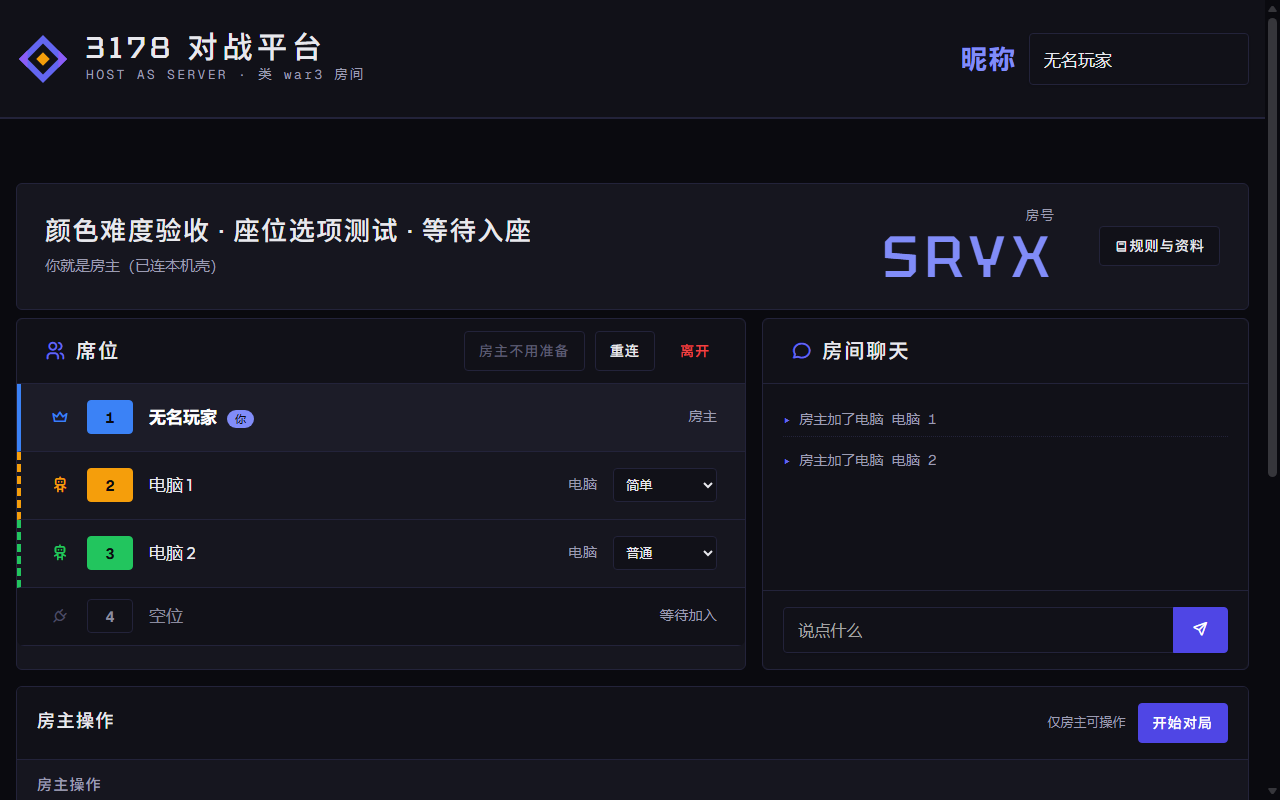
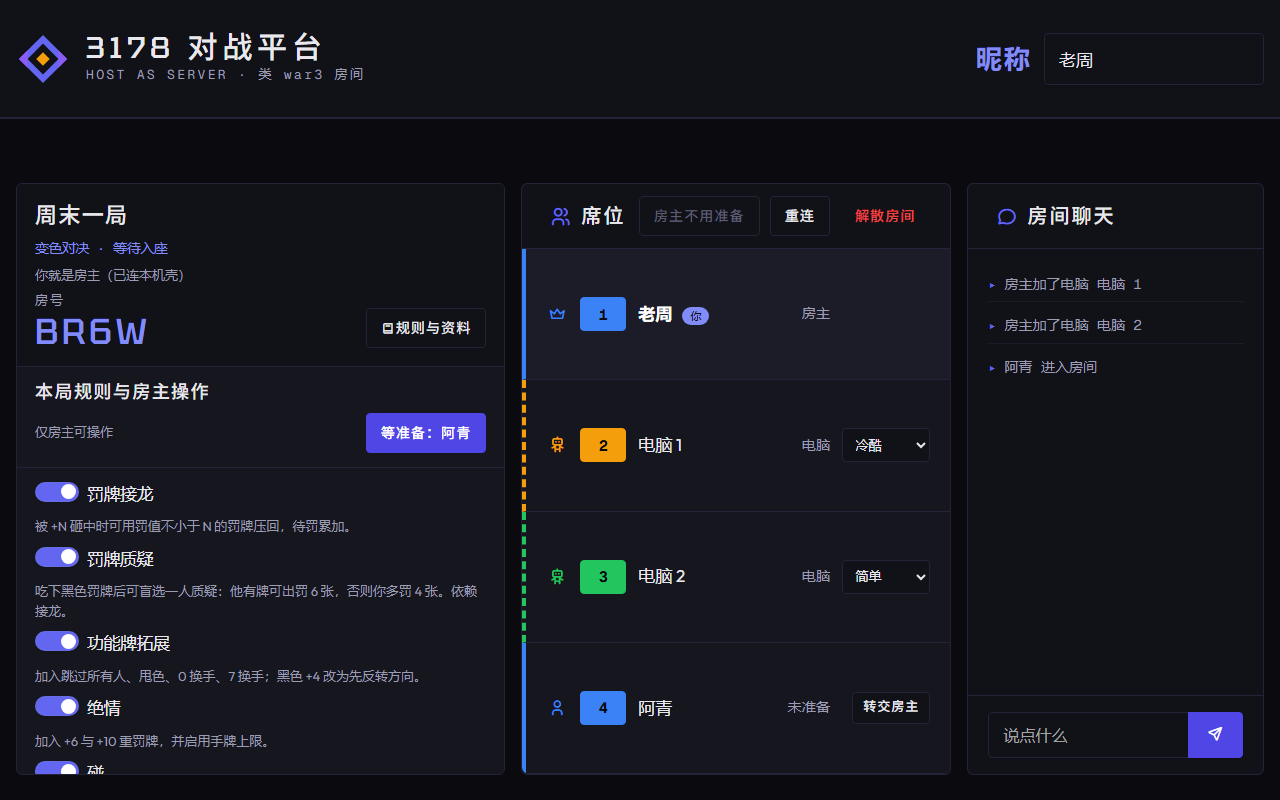
style: 房间三栏按内容分宽

diff --git a/packages/client/public/style.css b/packages/client/public/style.css
@@ -419,7 +419,7 @@ option:disabled {
 .room-layout:not(.is-playing) {
   --bp-room-col-h: clamp(520px, calc(100vh - 208px), 760px);
   display: grid;
-  grid-template-columns: minmax(340px, 380px) minmax(0, 3fr) minmax(0, 2fr);
+  grid-template-columns: minmax(430px, 1.65fr) minmax(0, 1.45fr) minmax(0, 1fr);
   align-items: stretch;
   gap: 16px;
 }
@@ -698,8 +698,11 @@ option:disabled {
 /* 行内控件按固定列对齐：状态列同宽，右侧永远给动作留一列。 */
 .room-layout:not(.is-playing) .seat {
   display: grid;
-  grid-template-columns: 22px 46px minmax(0, 1fr) 72px minmax(88px, auto);
+  grid-template-columns: 22px 46px minmax(0, 1fr) 64px 88px;
+  gap: 12px;
+  padding: 0 20px;
 }
+.room-layout:not(.is-playing) .seat-ai-difficulty { width: 88px; }
 .room-layout:not(.is-playing) .seat-state { text-align: right; white-space: nowrap; }
 .room-layout:not(.is-playing) .seat-transfer-button,
 .room-layout:not(.is-playing) .seat-ai-difficulty { justify-self: end; }

diff --git a/CONTEXT.md b/CONTEXT.md
@@ -28,15 +28,15 @@
 - 平台内核（P0–P7）已交付：协议、座位与房主权限、`GameModule` 契约 + 测试夹具、ws 传输、落盘恢复、客户端界面、hostd 壳（host / join / diagnose / stop）。
 - 包边界：`@lizardon386/core-abi`（游戏 ABI）· `@bp/protocol`（wire）· `@lizardon386/pack-format`（.bpmap）· `@lizardon386/game-sdk`（公共门面 + game-kit）· `@lizardon386/sdk-tools`（bpmap CLI / doctor / 模板）。平台包仍是 `@bp/server`、`@bp/client`、`@bp/hostd`、`@bp/testkit`。
 - 游戏下发与兼容闸：`/api/games`、`/games/<id>/*`、客户端 SHA-256 校验（无 `crypto.subtle` 时纯 JS 回退）、`sandbox=allow-scripts` iframe；`mode` / `apiVersion` 写入 `.bpmap` 包头，宿主只加载 `turn` / `1`，`/api/version` 与 `bpmap doctor` 用同一组常量；`fixture-kit` 覆盖事件流 / 资源 / 拒绝。
-- **座位级选项**（SDK 0.4.0 契约 `c326314`）：`SeatOptionsSpec` / `parseSeatOptions`，`SeatView.options` / `GameSeatInfo.options`，`hostSeat {op:'setOptions'}`；平台把颜色直接映射到席位左侧色条/图标/号码牌，房主点号码牌选色；电脑行内显示难度下拉，无通用“设置”按钮；只房主、只 lobby，服务端用游戏 `normalizeSeatOptions`/spec 收口，`RoomExport` 随座位持久化。1280×800 截图 [seat-options-1280.png](docs/images/seat-options-1280.png)。232/232。
-- 房间 UI 增量：lobby 改三栏——左栏 380px，房信息与「本局规则与房主操作」合成一张连续卡（房信息 184px、房主台 407px），规则区紧贴房号下方，规则说明 13px，控制台在栏内滚动；右侧席位/聊天并排。三栏共用 `clamp(520px, calc(100vh - 208px), 760px)` 高度（1280×800 实测 592px），席位行固定列对齐。非房主左栏只保留只读规则摘要，房主操作/开局/邀请/颜色入口/难度下拉全部隐藏。房主顶部按钮改为「解散房间」（直接 hostClose），真人席位行右侧由房主直接「转交房主」，状态列与动作列对齐。`playing` 时房间头移到顶部，游戏区拉通整行，席位横向状态条，聊天/控制台进右侧侧栏（`D` / `Esc`，焦点归还）；无 deadline 不显示倒计时块；“规则与资料”改为接近全屏双栏弹层。1280×800 实测游戏区 1248×560；截图 [房主](docs/images/room-host-lobby-1280.png) / [非房主](docs/images/room-guest-lobby-1280.png) / [对局中](docs/images/room-playing-1280.png)。房间页「本局规则」卡由房主在 lobby 编辑（`ruleConfig` 命令，非房主 HOSTONLY），改后刷新 `RoomView.config` / `rulesHash`、重置真人 ready 并发系统消息；`RoomExport.config` 落盘，重启保持。`manifest.reference` 首次展开才请求，`parseGameReference` 校验，文本用 `textContent`、图片走 `/games`，图片 404 显示 alt，失败只影响面板。服务端在模块加载时还会校验 `ruleConfig` / `reference` 文档，坏声明跳过并记 `errors`；`manifestOf` 再挡一次；包头与模块 reference 不一致拒绝加载。
+- **座位级选项**（SDK 0.4.0 契约 `c326314`）：`SeatOptionsSpec` / `parseSeatOptions`，`SeatView.options` / `GameSeatInfo.options`，`hostSeat {op:'setOptions'}`；平台把颜色直接映射到席位左侧色条/图标/号码牌，房主点号码牌选色；电脑行内显示难度下拉，无通用“设置”按钮；只房主、只 lobby，服务端用游戏 `normalizeSeatOptions`/spec 收口，`RoomExport` 随座位持久化。**变色对决 0.1.0+c6836 已声明并用真实包实测**：房主座位蓝/红/绿可切，电脑 1/2 各自选简单/中等/冷酷；非房主看不到颜色入口，难度下拉只读。1280×800 截图 [seat-options-1280.png](docs/images/seat-options-1280.png)。232/232。
+- 房间 UI 增量：lobby 改三栏——三栏按内容比例分宽（左栏至少 430px，1280×800 实测左 495 / 席位 426 / 聊天 301），房信息与「本局规则与房主操作」合成一张连续卡（房信息 184px、房主台 407px），规则区紧贴房号下方，规则说明 13px，控制台在栏内滚动；席位行固定列（状态 64px、动作列 88px），电脑难度与转交按钮同列，状态右边界一致。三栏共用 `clamp(520px, calc(100vh - 208px), 760px)` 高度（1280×800 实测 592px）。非房主左栏只保留只读规则摘要，房主操作/开局/邀请/颜色入口全部隐藏，电脑难度下拉只读。房主顶部按钮改为「解散房间」（直接 hostClose），真人席位行右侧由房主直接「转交房主」。`playing` 时房间头移到顶部，游戏区拉通整行，席位横向状态条，聊天/控制台进右侧侧栏（`D` / `Esc`，焦点归还）；无 deadline 不显示倒计时块；“规则与资料”改为接近全屏双栏弹层。1280×800 实测游戏区 1248×560；截图 [房主](docs/images/room-host-lobby-1280.png) / [非房主](docs/images/room-guest-lobby-1280.png) / [对局中](docs/images/room-playing-1280.png)。房间页「本局规则」卡由房主在 lobby 编辑（`ruleConfig` 命令，非房主 HOSTONLY），改后刷新 `RoomView.config` / `rulesHash`、重置真人 ready 并发系统消息；`RoomExport.config` 落盘，重启保持。`manifest.reference` 首次展开才请求，`parseGameReference` 校验，文本用 `textContent`、图片走 `/games`，图片 404 显示 alt，失败只影响面板。服务端在模块加载时还会校验 `ruleConfig` / `reference` 文档，坏声明跳过并记 `errors`；`manifestOf` 再挡一次；包头与模块 reference 不一致拒绝加载。
 - 单入口壳：根目录只有 `3178对战平台.bat`，启动 `cli.js shell`；先只开 `127.0.0.1:3178` 与本机大厅，点「建房」时调 `/api/host/ready` 再开 `0.0.0.0:3000`、组播与 `HostStore`。纯进房不创建 `HostStore`、不写 `data/`；建房后 `run-<port>.json` / `stop` / `diagnose` 与旧入口一致。`host` / `join` 子命令保留给命令行。
 - SDK 0.3.0 已发 npm（四包 `@lizardon386/*`，`latest` 均为 0.3.0，2026-10-29）；Trusted Publisher + [publish-sdk.yml](.github/workflows/publish-sdk.yml) 的首次真实 CI 发布已绿；`sdk-v0.3.0` tag/Release 已建（Release 资产来自 `dist-sdk/`，含 SHA256SUMS）。`sdk-v0.2.0` 保留可回退。**SDK 0.4.0 座位选项契约已在仓库（`c326314`），未打包/未发 npm/未打 tag**；游戏侧需本地 link 0.4.0。
[2 lines of base64/hex data omitted]
 
 ## 4. 下一步
 
-1. **等用户自测初版 color-duel 包**：包在 `games/color-duel.bpmap`（gitignored），用「3178对战平台.bat」建房/改规则/开局即可；用户反馈后先修游戏或平台，不急着发版。平台侧猴测结果：协议猴测 seed 707 夹具 0 违规；强制 color-duel 的协议猴测 seed 717 0 违规；UI 猴测 seed 909（4 用户 60 步）0 违规。
+1. **等用户自测 color-duel 包**：包在 `games/color-duel.bpmap`（gitignored，已含 seatOptions），用「3178对战平台.bat」建房/改规则/开局即可；**如果平台窗口在换包前就开着，先关掉重开**。用户反馈后先修游戏或平台，不急着发版。平台侧猴测结果：协议猴测 seed 707 夹具 0 违规；强制 color-duel 的协议猴测 seed 717 0 违规；UI 猴测 seed 909（4 用户 60 步）0 违规。
 2. **SDK 0.3.0 已发布（2026-10-29）**，color-duel 依赖已切 `^0.3.0` 并提交（`1a78b9e`，lock 指向 registry）；下一步 `gh repo create Lizardon386/color-duel --public` 推首个提交，CI 绿后打 `v0.1.0`。
 3. **双机与交付实测**：同 WiFi 组播、首次防火墙弹窗、`--tunnel` 真隧道（cloudflared）；便携包上无 Node 机器；单文件 exe 前先做 Node SEA hello-world 实验（SAC = On 可能直接拦）。
 6. 刻意不做：目录服务器 / 账号 / 好友 / 段位 / 匹配 / 反作弊仲裁 / 自动写防火墙规则。

diff --git a/DESIGN.md b/DESIGN.md
@@ -261,9 +261,9 @@ stateDiagram-v2
 
 ### 4.5 房间界面：对局区、规则与资料
 
-- **lobby 三栏等高**：左栏 380px 宽，房信息与「本局规则与房主操作」合成一张连续卡：房号/连接信息在上半，规则区紧贴其下，没有第二张卡的间距和重复边框；规则正文收紧到 13px，房主台在栏内滚动。右侧席位与聊天并排；三栏共用 `calc(100vh - 208px)` 的高度，桌面底边对齐。席位行按固定列对齐：状态列同宽，最右侧留动作列；真人席位行由房主直接点「转交房主」，房主的顶部按钮是「解散房间」而不是无意义的「离开」。进入 `playing` 后房间头移到顶部，游戏区拉通整行，席位压成横向状态条，聊天与同一控制台收进右侧抽屉，默认收起；按钮、`D` 键和 `Esc` 都能操作，关闭时焦点回到触发按钮。没有 deadline 时不显示倒计时块。
-- **非房主视图**：左栏只保留房间名/房号/连接状态和规则摘要，开局、加电脑位、移交、请出、邀请和关房全部隐藏；座位号码牌不是颜色入口，电脑难度下拉也不会出现。席位与聊天位置和房主一致，`lobby` 只多一个「准备」按钮。截图见 [room-guest-lobby-1280.png](docs/images/room-guest-lobby-1280.png)。
-- **桌面实测**：1280×800 下三栏同高 592px，左栏房信息 184px、房主台 407px，游戏区 1248×560；低于 1100px 宽的桌面不在本档验收范围。
+- **lobby 三栏等高**：三栏按内容比例分宽（左栏至少 430px，1280×800 实测左 495 / 席位 426 / 聊天 301），不再把左栏钉死在窄列。房信息与「本局规则与房主操作」合成一张连续卡：房号/连接信息在上半，规则区紧贴其下，没有第二张卡的间距和重复边框；规则正文收紧到 13px，房主台在栏内滚动。右侧席位与聊天并排；三栏共用 `calc(100vh - 208px)` 的高度，桌面底边对齐。席位行按固定列对齐：状态列同宽，最右侧固定 88px 动作列；真人席位行由房主直接点「转交房主」，电脑难度下拉也占这一列；房主的顶部按钮是「解散房间」而不是无意义的「离开」。进入 `playing` 后房间头移到顶部，游戏区拉通整行，席位压成横向状态条，聊天与同一控制台收进右侧抽屉，默认收起；按钮、`D` 键和 `Esc` 都能操作，关闭时焦点回到触发按钮。没有 deadline 时不显示倒计时块。
+- **非房主视图**：左栏只保留房间名/房号/连接状态和规则摘要，开局、加电脑位、移交、请出、邀请和关房全部隐藏；座位号码牌不是颜色入口，电脑难度下拉只读。席位与聊天位置和房主一致，`lobby` 只多一个「准备」按钮。截图见 [room-guest-lobby-1280.png](docs/images/room-guest-lobby-1280.png)。
+- **桌面实测**：1280×800 下三栏同高 592px，左栏房信息 184px、房主台 407px，游戏区 1248×560；席位状态列右边界全部一致。低于 1100px 宽的桌面不在本档验收范围。
 - **本局规则**：房间页在 `manifest.ruleConfig` 存在时在房主控制台里显示规则区；房主在 `lobby` 阶段可编辑，其他人只读，`playing` 后一律只读。修改走房主专用 `ruleConfig`，服务端用 `normalizeConfig` / `rulesHashOf` 重算，推进 revision，并把所有真人 ready 清零、发系统消息「房规已更新，请重新准备」。`RoomView.config` 与 `rulesHash` 随快照广播，后加入者从 `seatGranted` 的 manifest 和首个快照拿到新值；`RoomExport.config` 落盘，恢复后规则保持。平台不改 `normalizeConfig`，非法值仍由游戏兜底。
 - **座位级选项**：`GameModule.seatOptions` 声明每个座位可配的字段（`roles` 过滤）。颜色字段直接驱动席位行的左侧色条/图标/号码牌，房主在 lobby 点号码牌选色；电脑座位在行内显示难度下拉；不再有通用“设置”按钮。变更走 `hostSeat {op:'setOptions'}`；只房主、只 lobby，服务端用 `normalizeSeatOptions` 或声明默认值收口，`SeatView.options` / `GameSeatInfo.options` 透传，`RoomExport` 随座位持久化。平台不解释 field 的玩法含义。
 - **资料面板**：`manifest.reference.entry` 指向包内 JSON，第一次展开才请求 `/games/<id>/<entry>`，用 `parseGameReference` 校验；主界面和房间共用接近全屏的双栏弹层。只渲染纯文本与图片，文本走 `textContent`，不解析 HTML；图片走现有 `/games` 路由，`..`、绝对路径和反斜杠一律拒绝。图片 404 时用 `onerror` 显示 alt 文案；读取失败只在面板里说明，不影响对局。
